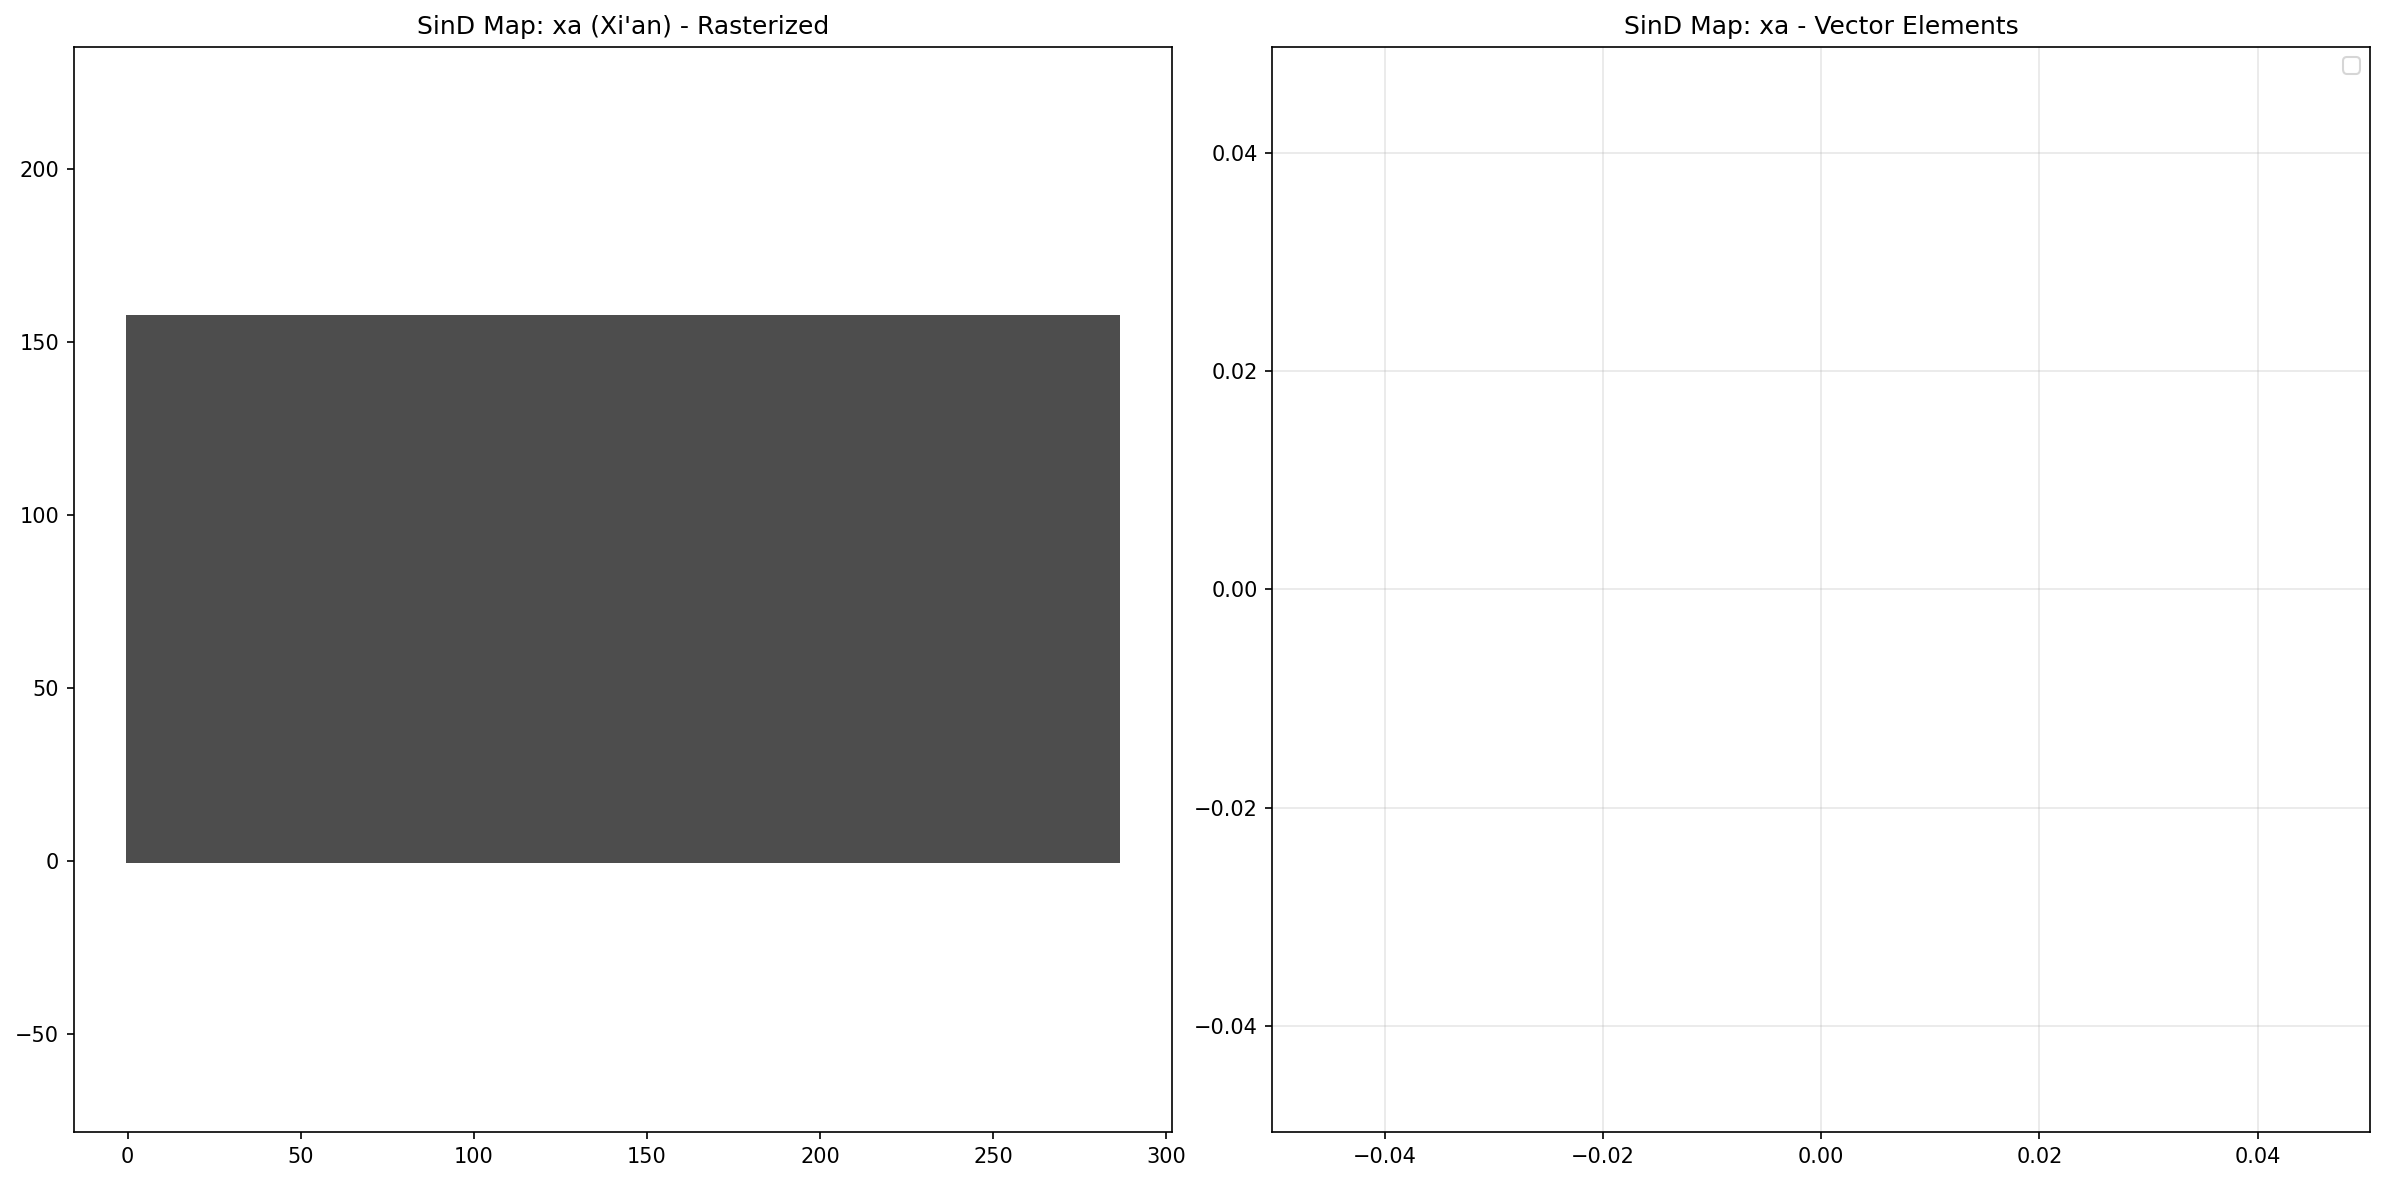
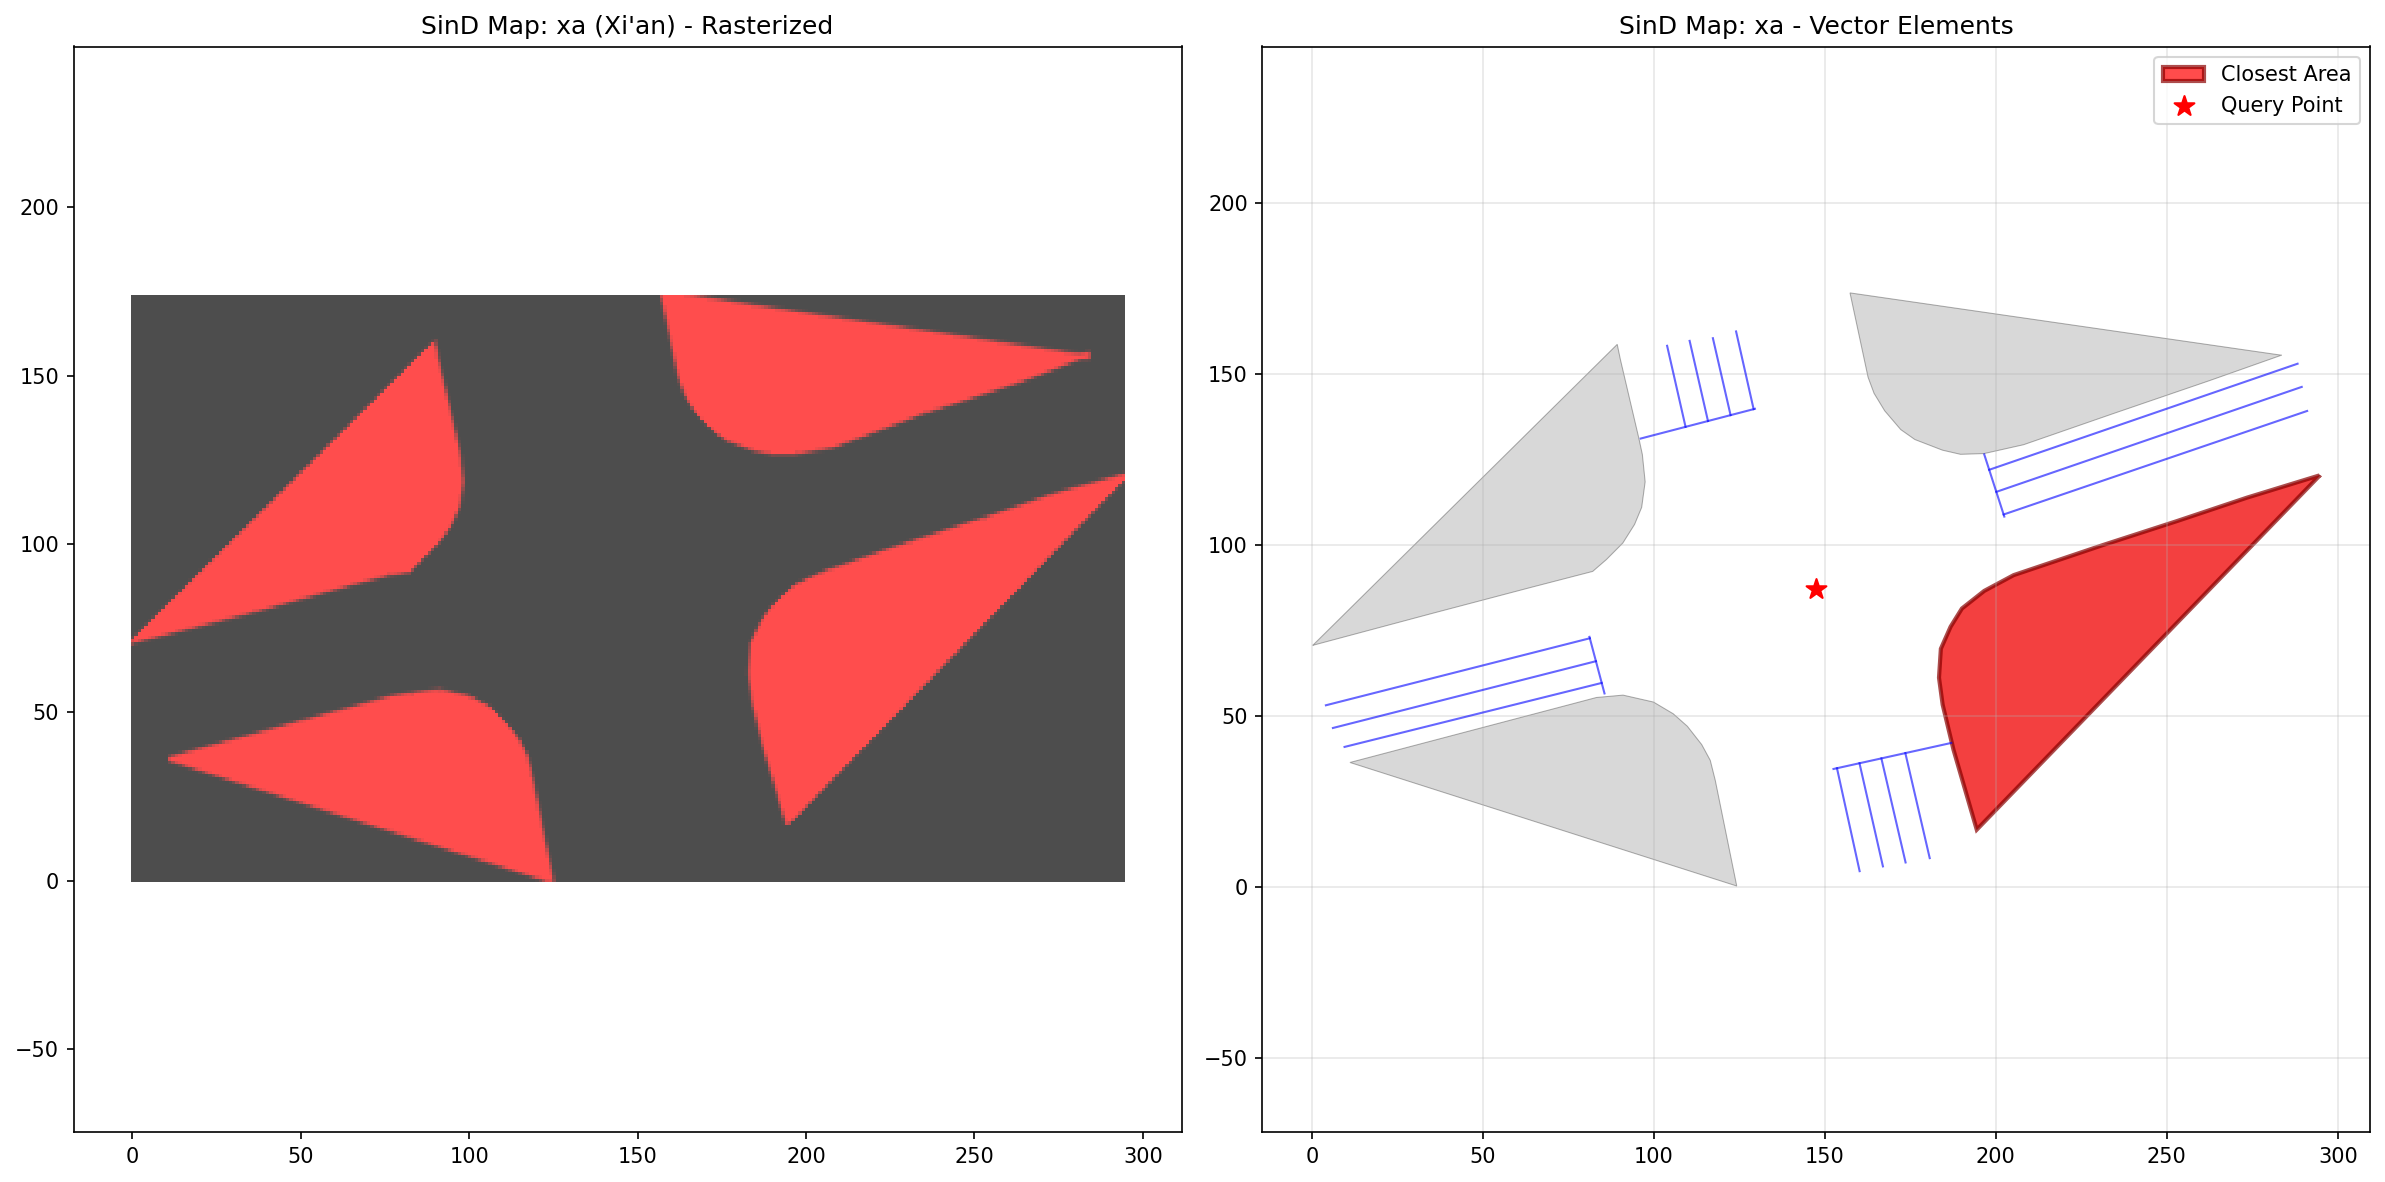
All cities visualization done.

diff --git a/SinD_integration_test_scripts/test1_map_visualization.py b/SinD_integration_test_scripts/test1_map_visualization.py
@@ -46,7 +46,7 @@ def main():
     sind_data_dir = Path("/home/lyw/1TBSSD/Datasets/ClaudeWork/My_trajdata/datasets/SinD_dataset")
 
     # Select a location to visualize (you can change this)
-    location = "cc"  # Xi'an
+    location = "cqR"  # Test cqR
 
     print(f"=== SinD Map Visualization Test ===")
     print(f"Location: {location} ({SIND_LOCATION_NAMES.get(location, 'Unknown')})")
@@ -188,7 +188,8 @@ def main():
     output_path = Path(__file__).parent / f"sind_map_{location}_visualization.png"
     plt.savefig(output_path, dpi=150, bbox_inches='tight')
     print(f"\nSaved visualization to: {output_path}")
-    plt.show()
+    # plt.show()  # Commented out to avoid blocking in batch mode
+    plt.close()  # Close the figure to free memory
 
 
 if __name__ == "__main__":
